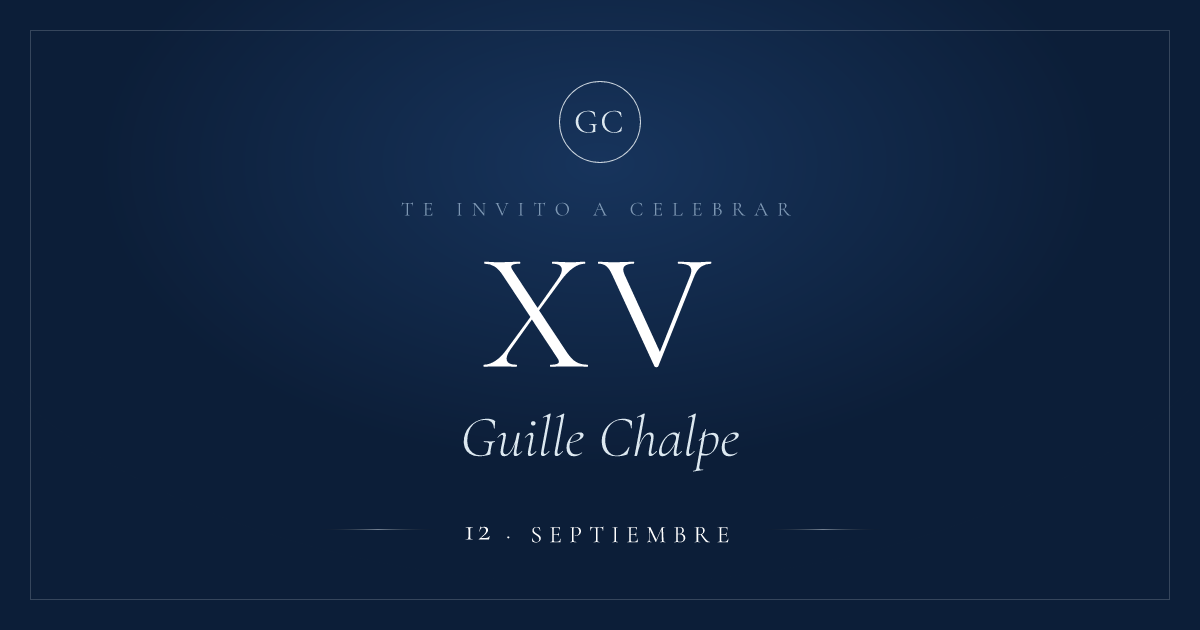
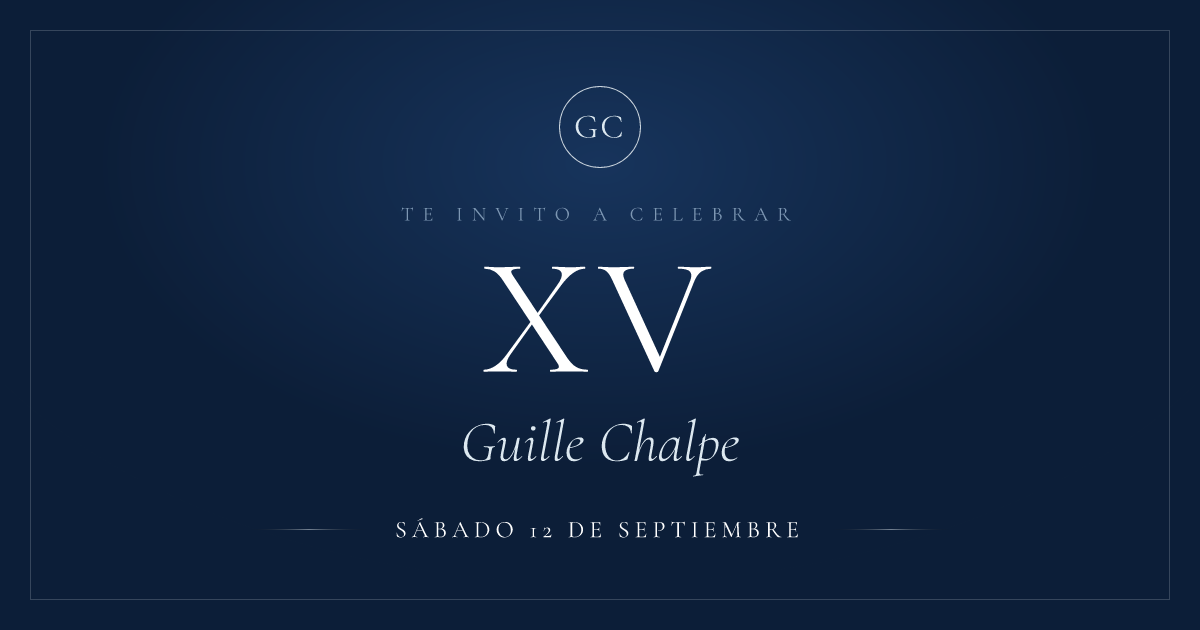
feat: update link preview metadata

diff --git a/src/data/event.config.ts b/src/data/event.config.ts
@@ -100,7 +100,7 @@ export const event = {
 
   /* --- Sitio / SEO --------------------------------------------------------- */
   /** TODO: dominio final. Se usa para canonical y Open Graph. */
-  siteUrl: 'https://xv-guille.vercel.app',
+  siteUrl: 'https://15s-guille.vercel.app/',
   ogImage: '/og-image.png',
 } as const;
 
